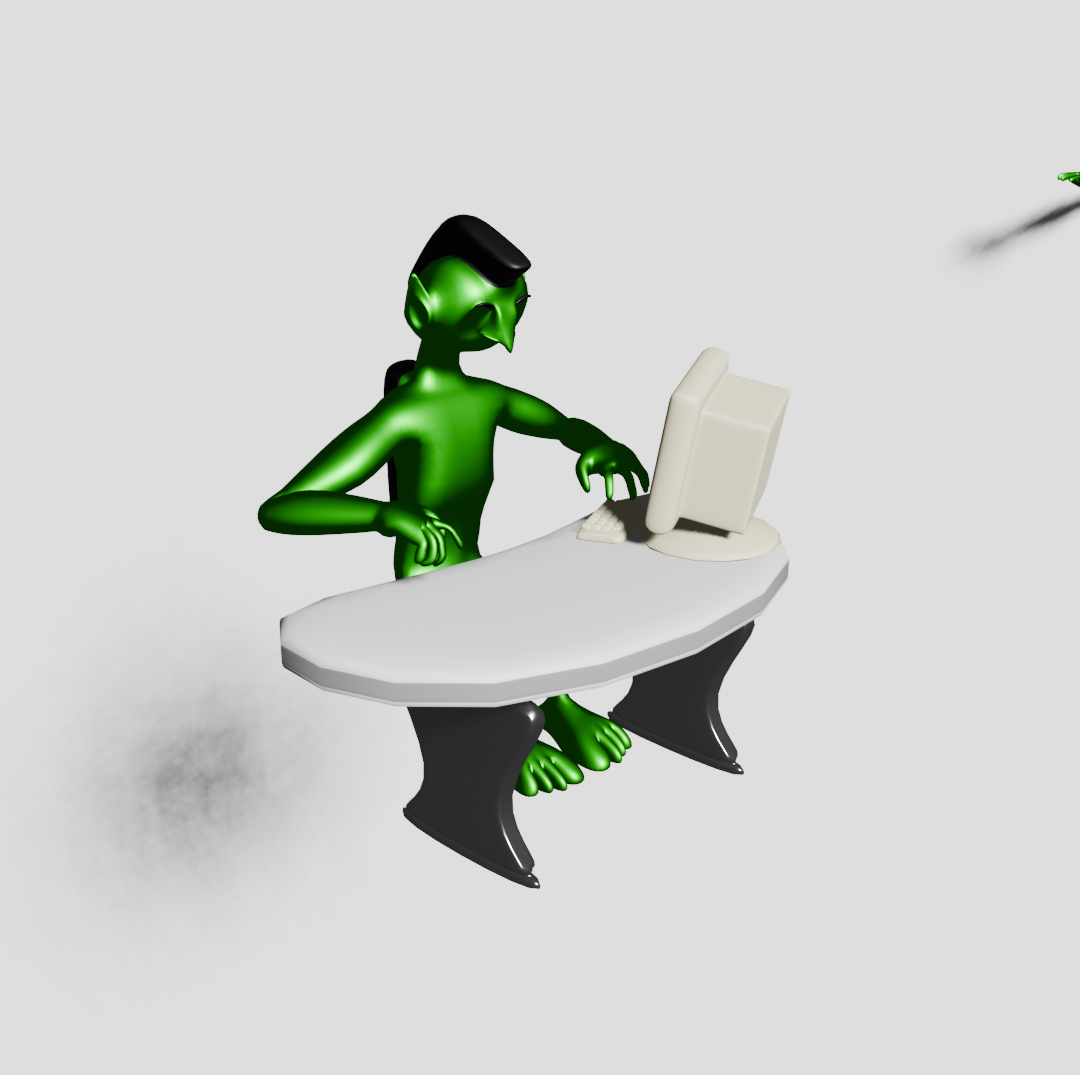
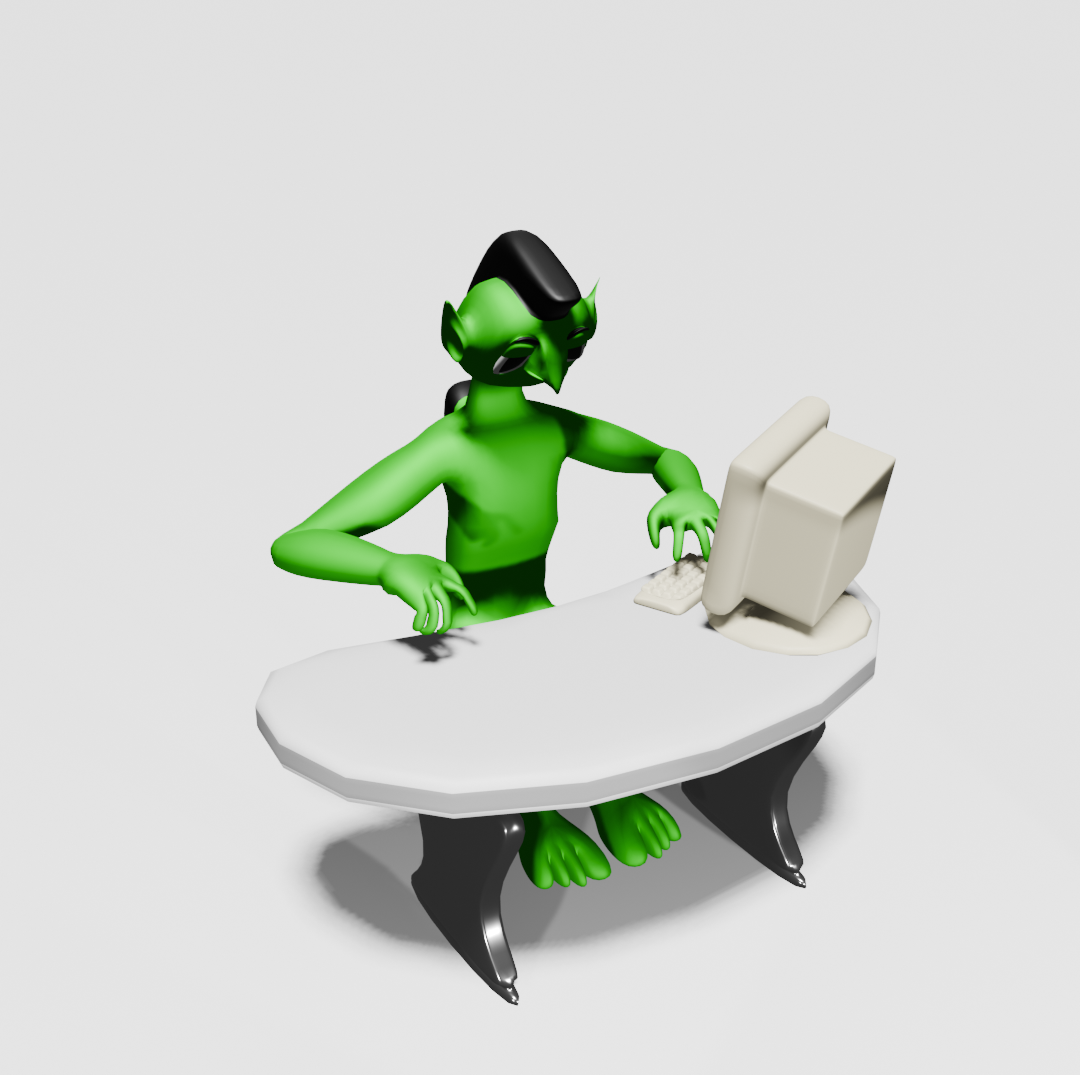
goblin hours V1 complete

Changed region(s): [[0.0611, 0.1833, 0.825, 0.9472], [0.8861, 0.1528, 1.0, 0.2444]]

diff --git a/blenderProjects/goblin.html b/blenderProjects/goblin.html
@@ -19,11 +19,14 @@
         </header>
         <main id="project">
             <img src="../images/goblin.png" height="720px">
+            <img src="../images/goblinWireFrame.png" height="720px">
+            <img src="../images/goblin1.gif" height="720px">
             <h2>Goblin Hours - Rendered in Eevee</h2>
-            <p>WIP. This model is a recreation of a gif called goblin hours.
+            <p>WIP. This model is a recreation of a gif called goblin hours as seen above and was started in February 2024.
             </p>
             <h3>Process images</h3>
-            <img src="../images/goblin1.gif" height="480px">
+            <img src="../images/goblin1.png" height="480px">
+            <img src="../images/goblin2.png" height="480px">
         </main>
         <footer>
             <h1>Contact Me</h1>
